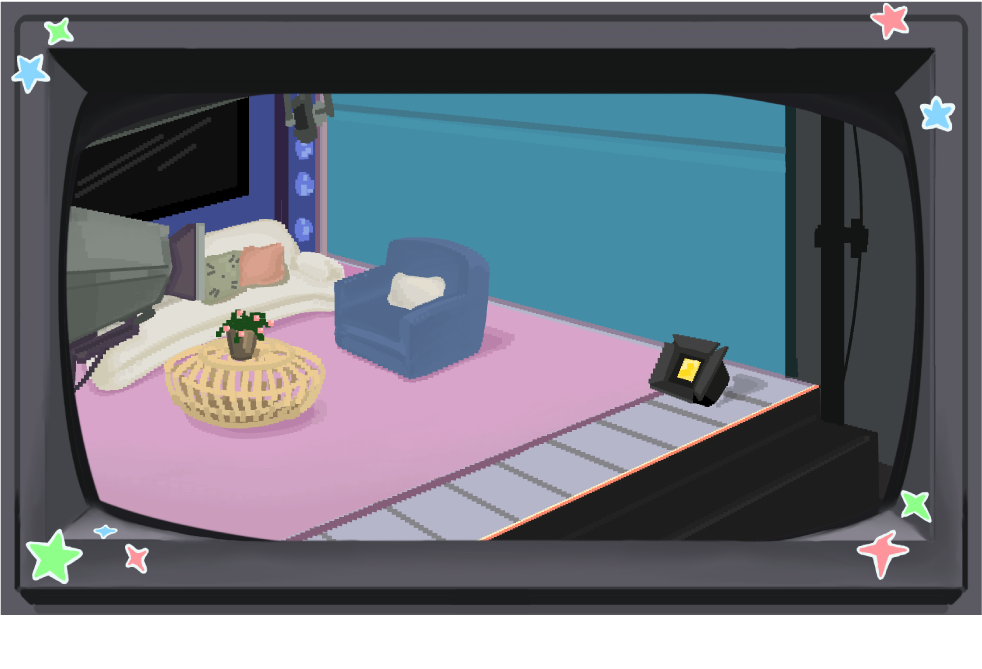
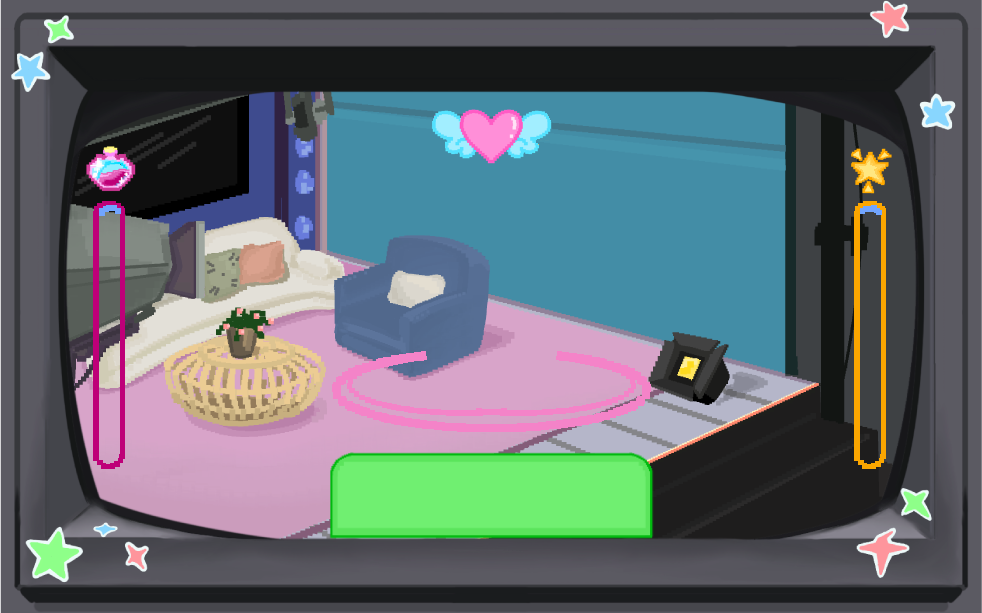
24oct testing

diff --git a/assignment3/styles.css b/assignment3/styles.css
@@ -6,112 +6,144 @@
   overflow: hidden;
 }
 
-/* 배경 이미지 */
-.background {
-  position: relative;
-  width: 100%;
-  height: 100%;
-  object-fit: cover;
-}
-
-/* 캐릭터 이미지 */
-.character {
+/* 배경 이미지를 화면에 맞게 꽉 채움 */
+#background {
   position: absolute;
-  bottom: 20%;
-  left: 50%;
-  transform: translateX(-50%);
-  width: 150px;
-}
-
-/* 상단 상태바 (체력/경험치) */
-.status-bar {
-  position: absolute;
-  top: 5%;
-  left: 50%;
-  transform: translateX(-50%);
-  width: 500px;
-  height: 50px;
-  display: flex;
-  justify-content: space-between;
-  align-items: center;
-}
-
-.status-image {
-  position: absolute;
-  width: 100%;
-  height: auto;
   top: 0;
   left: 0;
-  z-index: 1;
-}
-
-/* 체력 바 */
-.health-bar {
-  position: absolute;
-  width: 42%;
-  height: 20px;
-  left: 12%;
-  top: 20px;
-  background-color: #ffcccc;
-  border-radius: 10px;
-  overflow: hidden;
-  z-index: 2;
-}
-
-.health-inner {
-  background-color: #ff0000;
+  width: 100%;
   height: 100%;
-  width: 100%; /* 초기 체력 */
+  object-fit: cover; /* 화면 비율에 맞춰 이미지를 꽉 채움 */
 }
 
-/* 경험치 바 */
-.exp-bar {
+/* 캐릭터 이미지 위치 */
+#character {
   position: absolute;
-  width: 42%;
-  height: 20px;
-  right: 12%;
-  top: 20px;
-  background-color: #ccffcc;
-  border-radius: 10px;
-  overflow: hidden;
-  z-index: 2;
-}
-
-.exp-inner {
-  background-color: #00ff00;
-  height: 100%;
-  width: 0%; /* 초기 경험치 */
-}
-
-/* 하단 바 */
-.bottom-bar {
-  position: absolute;
-  bottom: 0;
+  bottom: 30%; /* 캐릭터를 화면 중간 위에 위치 */
   left: 50%;
   transform: translateX(-50%);
-  display: flex;
-  justify-content: center;
-  align-items: center;
-  width: 80%;
-  height: 120px;
+  width: 15%; /* 캐릭터 크기 */
+  z-index: 2;
 }
 
-.bottom-background {
+.health-bar {
+  position: absolute;
+  top: 33%;
+  left: 10.1%; /* 체력바를 화면의 왼쪽 5%에 위치 */
+  width: 2.1%;
+  height: 46%; /* 체력바 높이를 화면 비율에 맞게 50%로 */
+  background-color: red;
+  z-index: 3;
+  border-radius: 14px;
+  overflow: hidden;
+}
+
+/* 체력 게이지 채우기 */
+.health-inner {
   position: absolute;
   bottom: 0;
   width: 100%;
-  z-index: 1;
+  height: 100%;
+  background-color: #ff009f;
 }
 
-button {
-  background: none;
-  border: none;
+/* 경험치 바 (세로) */
+.exp-bar {
+  position: absolute;
+  top: 33%;
+  right: 10.4%; /* 경험치바를 화면의 오른쪽 5%에 위치 */
+  width: 2.1%;
+  height: 46%;
+  background-color: yellow;
+  z-index: 3;
+  border-radius: 14px;
+  overflow: hidden;
+}
+
+/* 경험치 게이지 채우기 */
+.exp-inner {
+  position: absolute;
+  bottom: 0;
+  width: 100%;
+  height: 100%;
+  background-color: #ffca00;
+}
+
+/* 레벨 표시 */
+.level-text {
+  position: absolute;
+  top: 14%; /* 상단 중앙에 레벨 표시 */
+  left: 50%;
+  transform: translateX(-50%);
+  font-size: 4vw; /* 레벨 텍스트 크기를 뷰포트 너비에 맞춤 */
+  color: palegoldenrod;
+  text-shadow: 2px 2px 6px #ffca00;
+  font-weight: bold;
+  z-index: 4;
+}
+
+/* 버튼들을 초록색 바 위에 위치시키기 */
+#dance-button,
+#tv-button,
+#record-button,
+#concert-button,
+#sleep-button {
+  position: absolute;
+  bottom: 9.5%; /* 초록색 바 위에 위치 */
+  z-index: 4;
+  background: none; /* 버튼 배경 제거 */
+  border: none; /* 버튼 테두리 제거 */
   cursor: pointer;
-  z-index: 2; /* 버튼을 바 위로 올림 */
+  transition: transform 0.2s ease, opacity 0.2s ease;
 }
 
-button img {
-  width: 80px;
-  height: 80px;
-  margin: 0 20px;
+/* Hover effect for buttons */
+#dance-button:hover,
+#tv-button:hover,
+#record-button:hover,
+#concert-button:hover,
+#sleep-button:hover {
+  transform: scale(1.1); /* Slightly increase the size */
+  opacity: 0.8; /* Slightly lower opacity */
+}
+
+/* 버튼 개별 위치 설정 */
+#dance-button {
+  left: 34.5%;
+}
+
+#tv-button {
+  left: 40.5%;
+}
+
+#record-button {
+  left: 46.5%;
+}
+
+#concert-button {
+  left: 52.5%;
+}
+
+#sleep-button {
+  left: 58.5%; /* 새 버튼 위치 추가 */
+}
+
+/* 버튼 아이콘 크기 설정 */
+#dance-button img,
+#tv-button img,
+#record-button img,
+#concert-button img,
+#sleep-button img {
+  width: 6.1vw; /* 버튼 크기를 뷰포트 너비에 맞춤 */
+  height: auto;
+  z-index: 5;
+}
+
+/* 추가적인 배경 설정 */
+body,
+html {
+  margin: 0;
+  padding: 0;
+  overflow: hidden; /* 스크롤을 없앰 */
+  height: 100%;
 }

diff --git a/assignment3/script.js b/assignment3/script.js
@@ -1,59 +1,47 @@
-// 기본 배경들
-const backgrounds = {
-  bg1: "image/bg1.png",
-  bg2: "image/bg2.png",
-  bg3: "image/bg3.png",
-  bg4: "image/bg4.png",
-};
-
-// 체력 및 경험치 변수
+// 초기 설정: 체력, 경험치, 레벨
 let health = 100;
-let exp = 0;
+let experience = 100;
+let level = 1;
 
-// 체력과 경험치 바 업데이트 함수
+// 체력 및 경험치 바 업데이트 함수
 function updateBars() {
+  // 체력 바 너비 변경
   document.querySelector(".health-inner").style.width = health + "%";
-  document.querySelector(".exp-inner").style.width = exp + "%";
+  // 경험치 바 너비 변경
+  document.querySelector(".exp-inner").style.width = experience + "%";
+  // 레벨 텍스트 업데이트
+  document.querySelector(".level-text").textContent = "Lv." + level;
 }
 
-// 버튼 이벤트 설정
+// 배경 변경 함수
+function changeBackground(newBg) {
+  document.getElementById("background").src = newBg;
+}
+
+// 버튼 이벤트 리스너 추가
 document.getElementById("dance-button").addEventListener("click", function () {
-  document.querySelector(".background").src = backgrounds.bg1;
-  health -= 20; // 체력 감소
-  exp += 15; // 경험치 증가
-  if (health < 0) health = 0;
-  if (exp > 100) exp = 100;
-  updateBars(); // 체력 및 경험치 업데이트
+  health = Math.max(0, health - 20); // 체력 감소 (최소 0)
+  experience = Math.min(100, experience + 15); // 경험치 증가 (최대 100)
+  updateBars();
 });
 
 document.getElementById("tv-button").addEventListener("click", function () {
-  document.querySelector(".background").src = backgrounds.bg2;
-  health -= 10;
-  exp += 10;
-  if (health < 0) health = 0;
-  if (exp > 100) exp = 100;
-  updateBars();
+  document.getElementById("background").src = "image/bg2.png";
 });
 
 document.getElementById("record-button").addEventListener("click", function () {
-  document.querySelector(".background").src = backgrounds.bg3;
-  health -= 15;
-  exp += 20;
-  if (health < 0) health = 0;
-  if (exp > 100) exp = 100;
-  updateBars();
+  document.getElementById("background").src = "image/bg3.png";
 });
 
 document
   .getElementById("concert-button")
   .addEventListener("click", function () {
-    document.querySelector(".background").src = backgrounds.bg4;
-    health -= 25;
-    exp += 30;
-    if (health < 0) health = 0;
-    if (exp > 100) exp = 100;
-    updateBars();
+    document.getElementById("background").src = "image/bg4.png";
   });
 
-// 초기 상태바 설정
-updateBars();
+document.getElementById("sleep-button").addEventListener("click", function () {
+  document.getElementById("background").src = "image/bg1.png"; // Reset to original background
+});
+
+// 게임 초기화
+updateBars(); // 처음에 체력 및 경험치 바를 가득 채운 상태로 시작

diff --git a/assignment3/index.html b/assignment3/index.html
@@ -9,34 +9,32 @@
   <body>
     <div class="imgbox">
       <!-- 배경 이미지 -->
-      <img src="image/bg1.png" alt="Game Background" class="background" />
+      <img
+        src="image/bg1.png"
+        alt="Game Background"
+        id="background"
+        class="background"
+      />
 
       <!-- 상단 상태바 (체력/경험치) -->
       <div class="status-bar">
-        <img src="image/lvbar.png" alt="Status Bar" class="status-image" />
         <div class="health-bar">
           <div class="health-inner"></div>
+          <!-- 체력 바 -->
         </div>
         <div class="exp-bar">
           <div class="exp-inner"></div>
+          <!-- 경험치 바 -->
         </div>
+        <div class="level-text">Lv.1</div>
+        <!-- 레벨 텍스트 -->
       </div>
 
       <!-- 캐릭터 이미지 -->
-      <img
-        src="image/lv1.png"
-        alt="Character"
-        class="character"
-        id="current-character"
-      />
+      <img src="image/lv1.png" alt="Character" id="character" />
 
-      <!-- 하단 바 -->
+      <!-- 버튼들 -->
       <div class="bottom-bar">
-        <img
-          src="image/bottombar.png"
-          alt="Bottom Bar"
-          class="bottom-background"
-        />
         <button id="dance-button">
           <img src="image/dancebutton.png" alt="Dance Button" />
         </button>
@@ -48,6 +46,9 @@
         </button>
         <button id="concert-button">
           <img src="image/concertbutton.png" alt="Concert Button" />
+        </button>
+        <button id="sleep-button">
+          <img src="image/sleepbutton.png" alt="Sleep Button" />
         </button>
       </div>
     </div>
